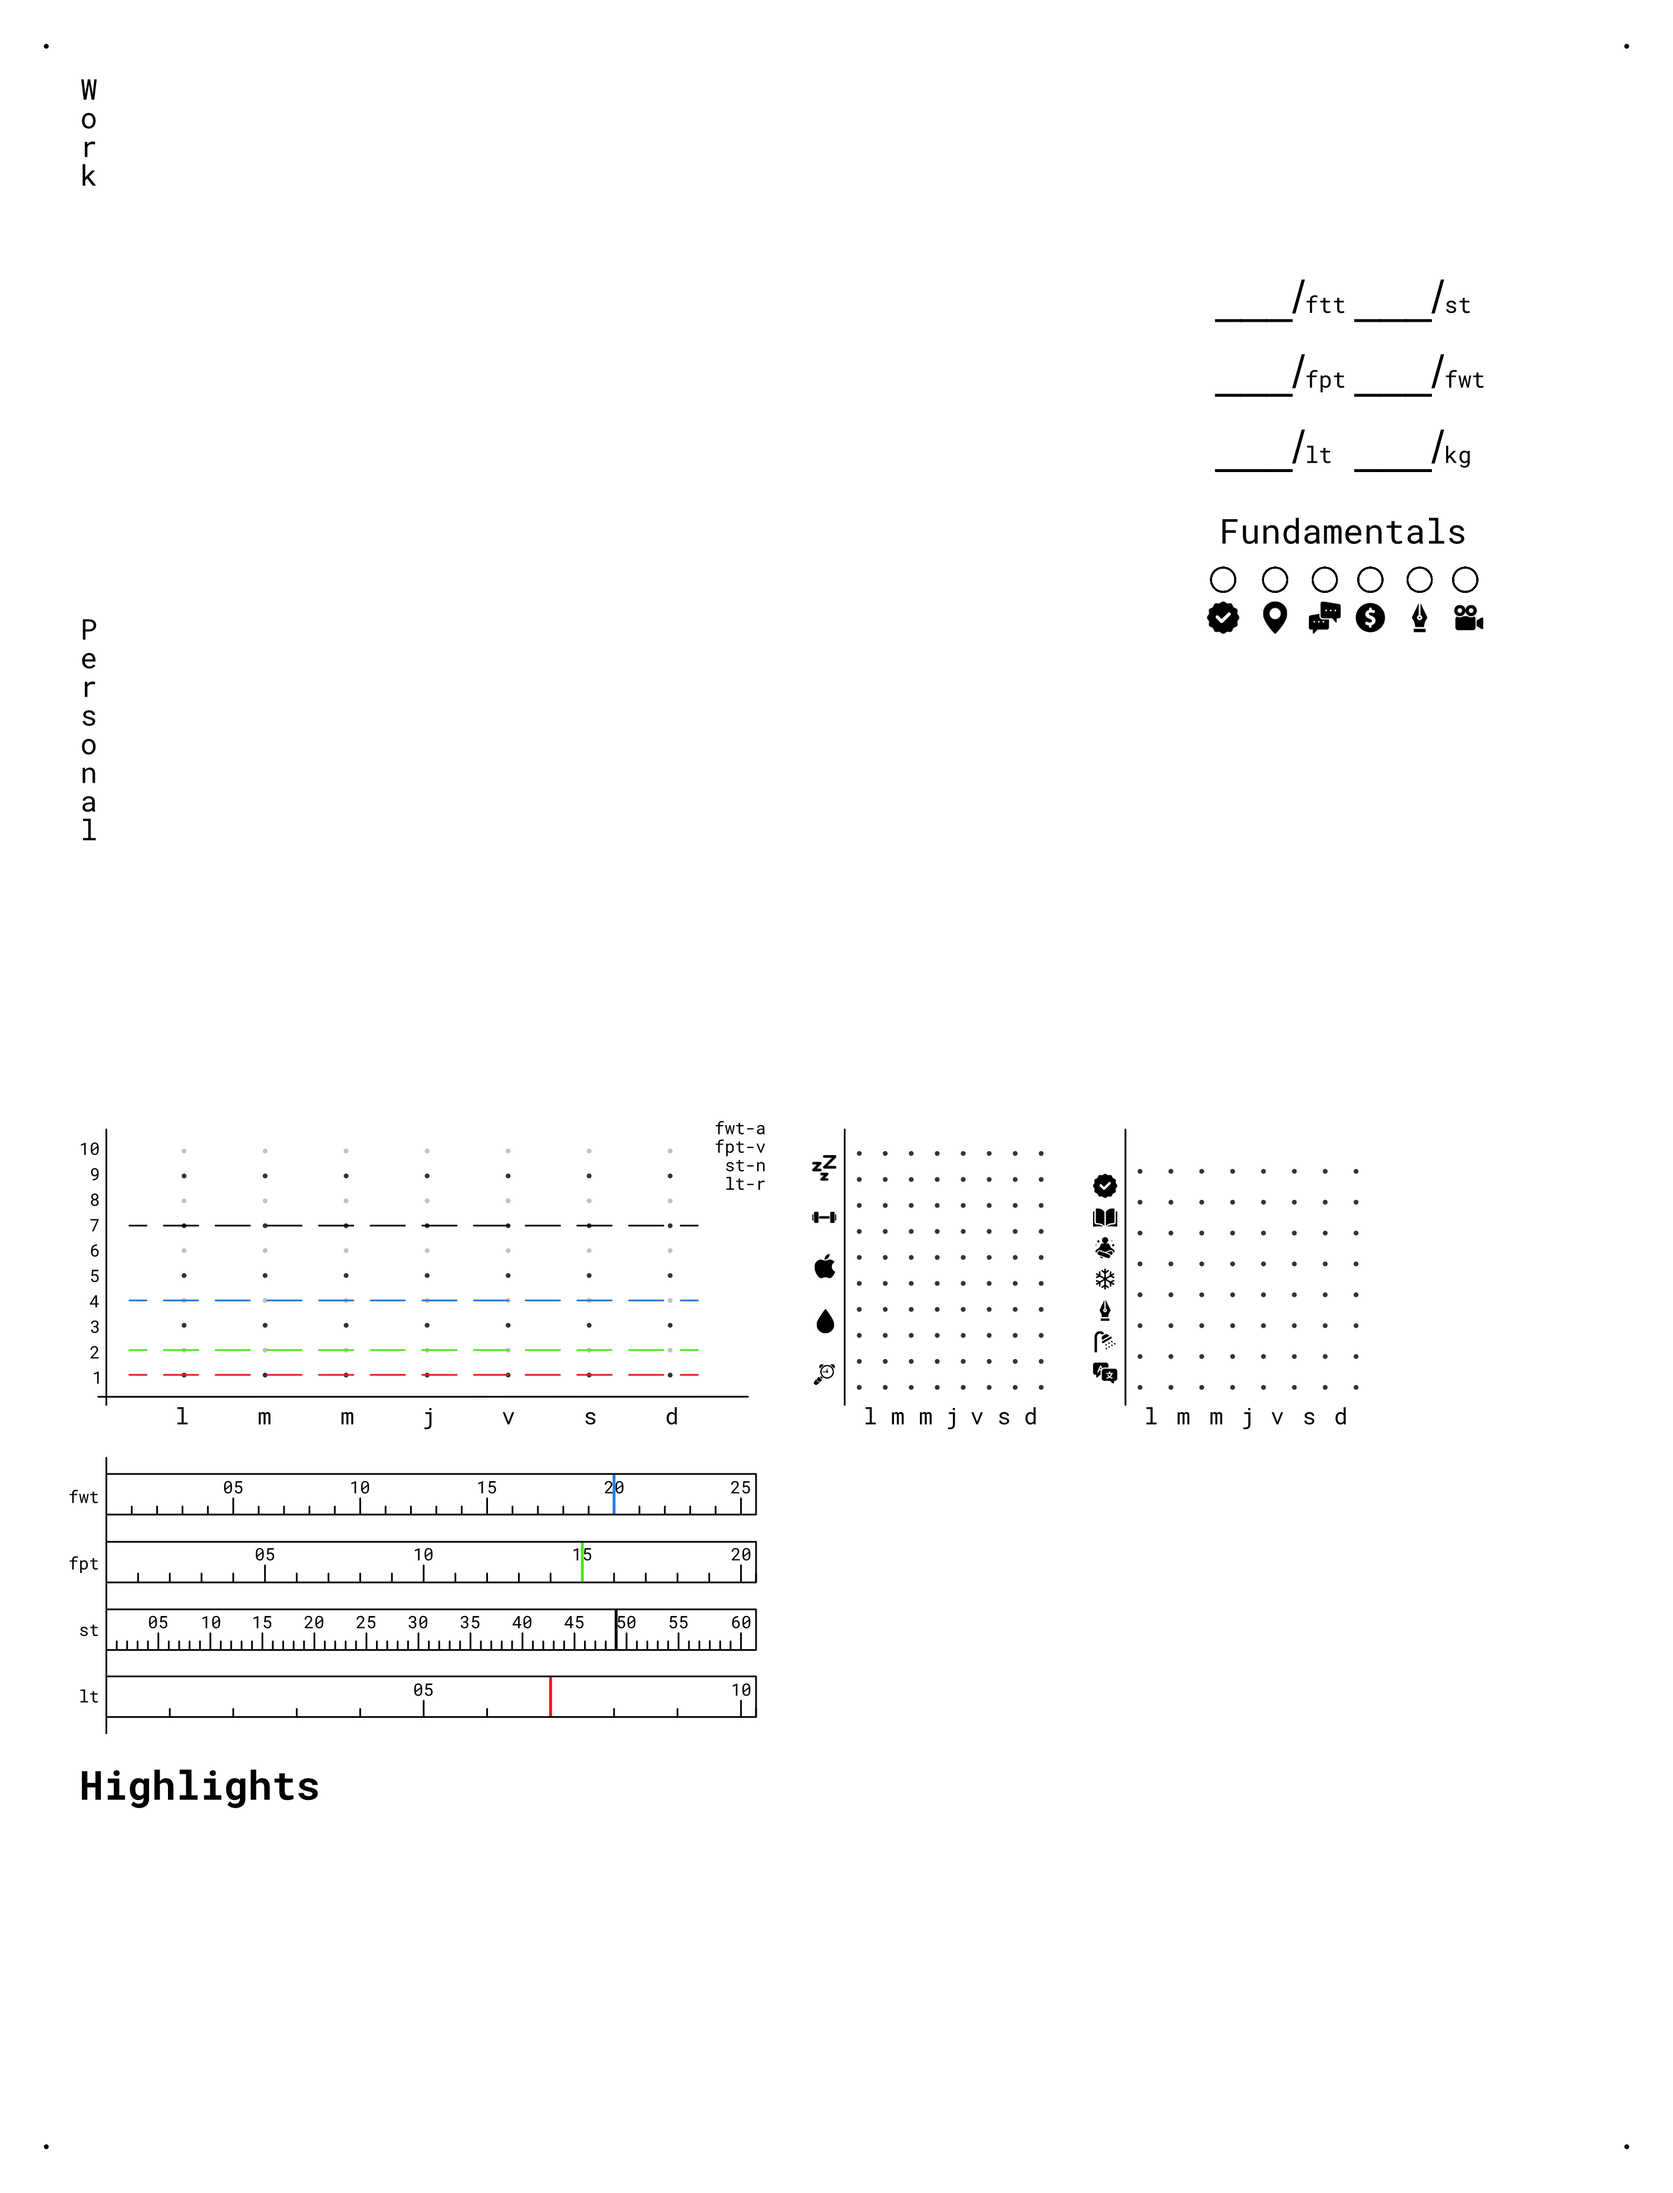
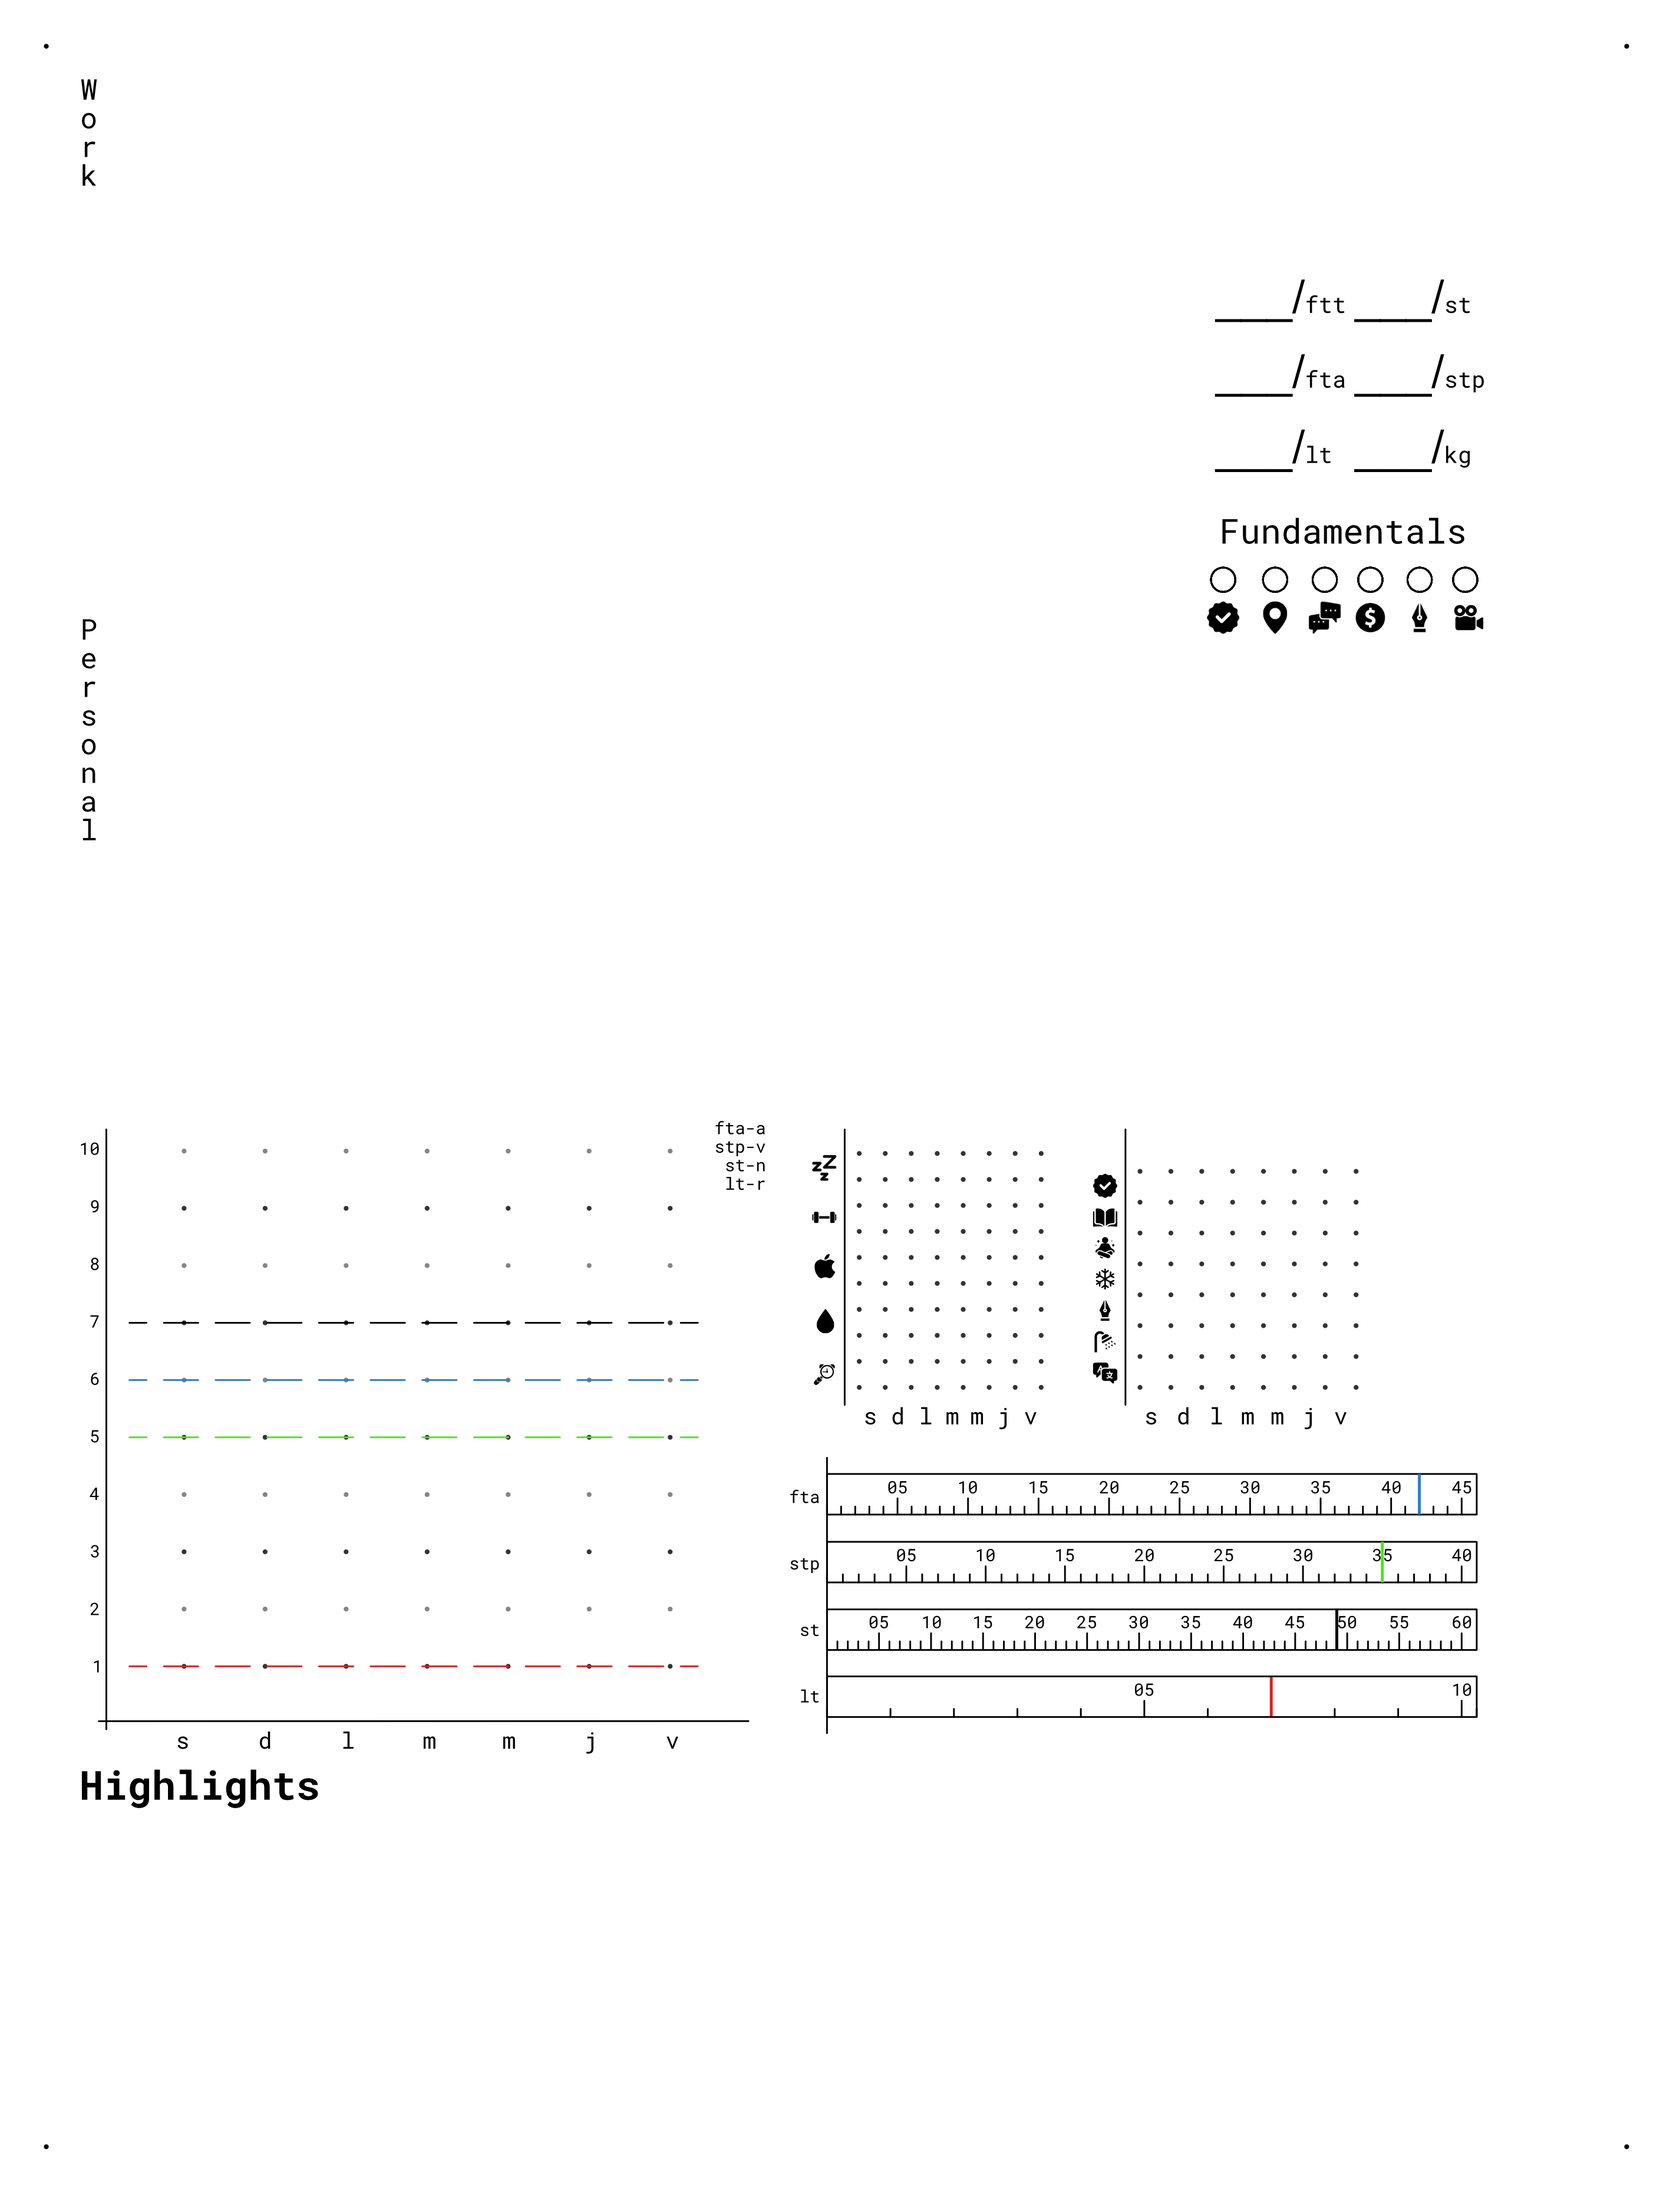
Fix week template dates calculation

diff --git a/src/cli_processor.py b/src/cli_processor.py
@@ -25,8 +25,13 @@ def get_pages_dates() -> tuple[datetime, datetime | None]:
     day_date: datetime = CURRENT_DATE + timedelta(days=day_delta_offset)
 
     week_start_date: datetime | None = None
+    is_weekend = CURRENT_DATE.weekday() >= 5
     if user_print_week:
+        # Get the date of the saturday of the las week
+        if not is_weekend:
+            week_delta_offset -= 1
+
         week_date = CURRENT_DATE + timedelta(weeks=week_delta_offset)
-        week_start_date: datetime = week_date - timedelta(days=week_date.weekday())
+        week_start_date = week_date - timedelta(days=week_date.weekday()) + timedelta(days=5)
 
     return day_date, week_start_date

diff --git a/src/image_processor.py b/src/image_processor.py
@@ -55,7 +55,7 @@ def add_week_date_to_img(base_image: ImageDrawType, start_date: datetime) -> Ima
         Base image with date added.
     """
     logging.info(f"Adding week date {start_date} to image")
-    week_number = start_date.isocalendar()[1]
+    week_number = (start_date + timedelta(weeks=1)).isocalendar()[1]
     formatted_start_date = start_date.strftime(date_format)
     formatted_end_date = (start_date + timedelta(days=6)).strftime(date_format)
     base_color = "black"

diff --git a/src/page_processor.py b/src/page_processor.py
@@ -34,7 +34,7 @@ class PageProcessor:
 
         tasks_page_with_date = add_day_date_to_img(raw_tasks_page, page_date)
 
-        task_data = self.data_processor.get_active_task_data(page_date.strftime("%Y-%m-%d"), 50)
+        task_data = self.data_processor.get_active_task_data(page_date.strftime("%Y-%m-%d"), 49)
         add_day_tasks_to_img(tasks_page_with_date, task_data)
 
         return tasks_page_base
